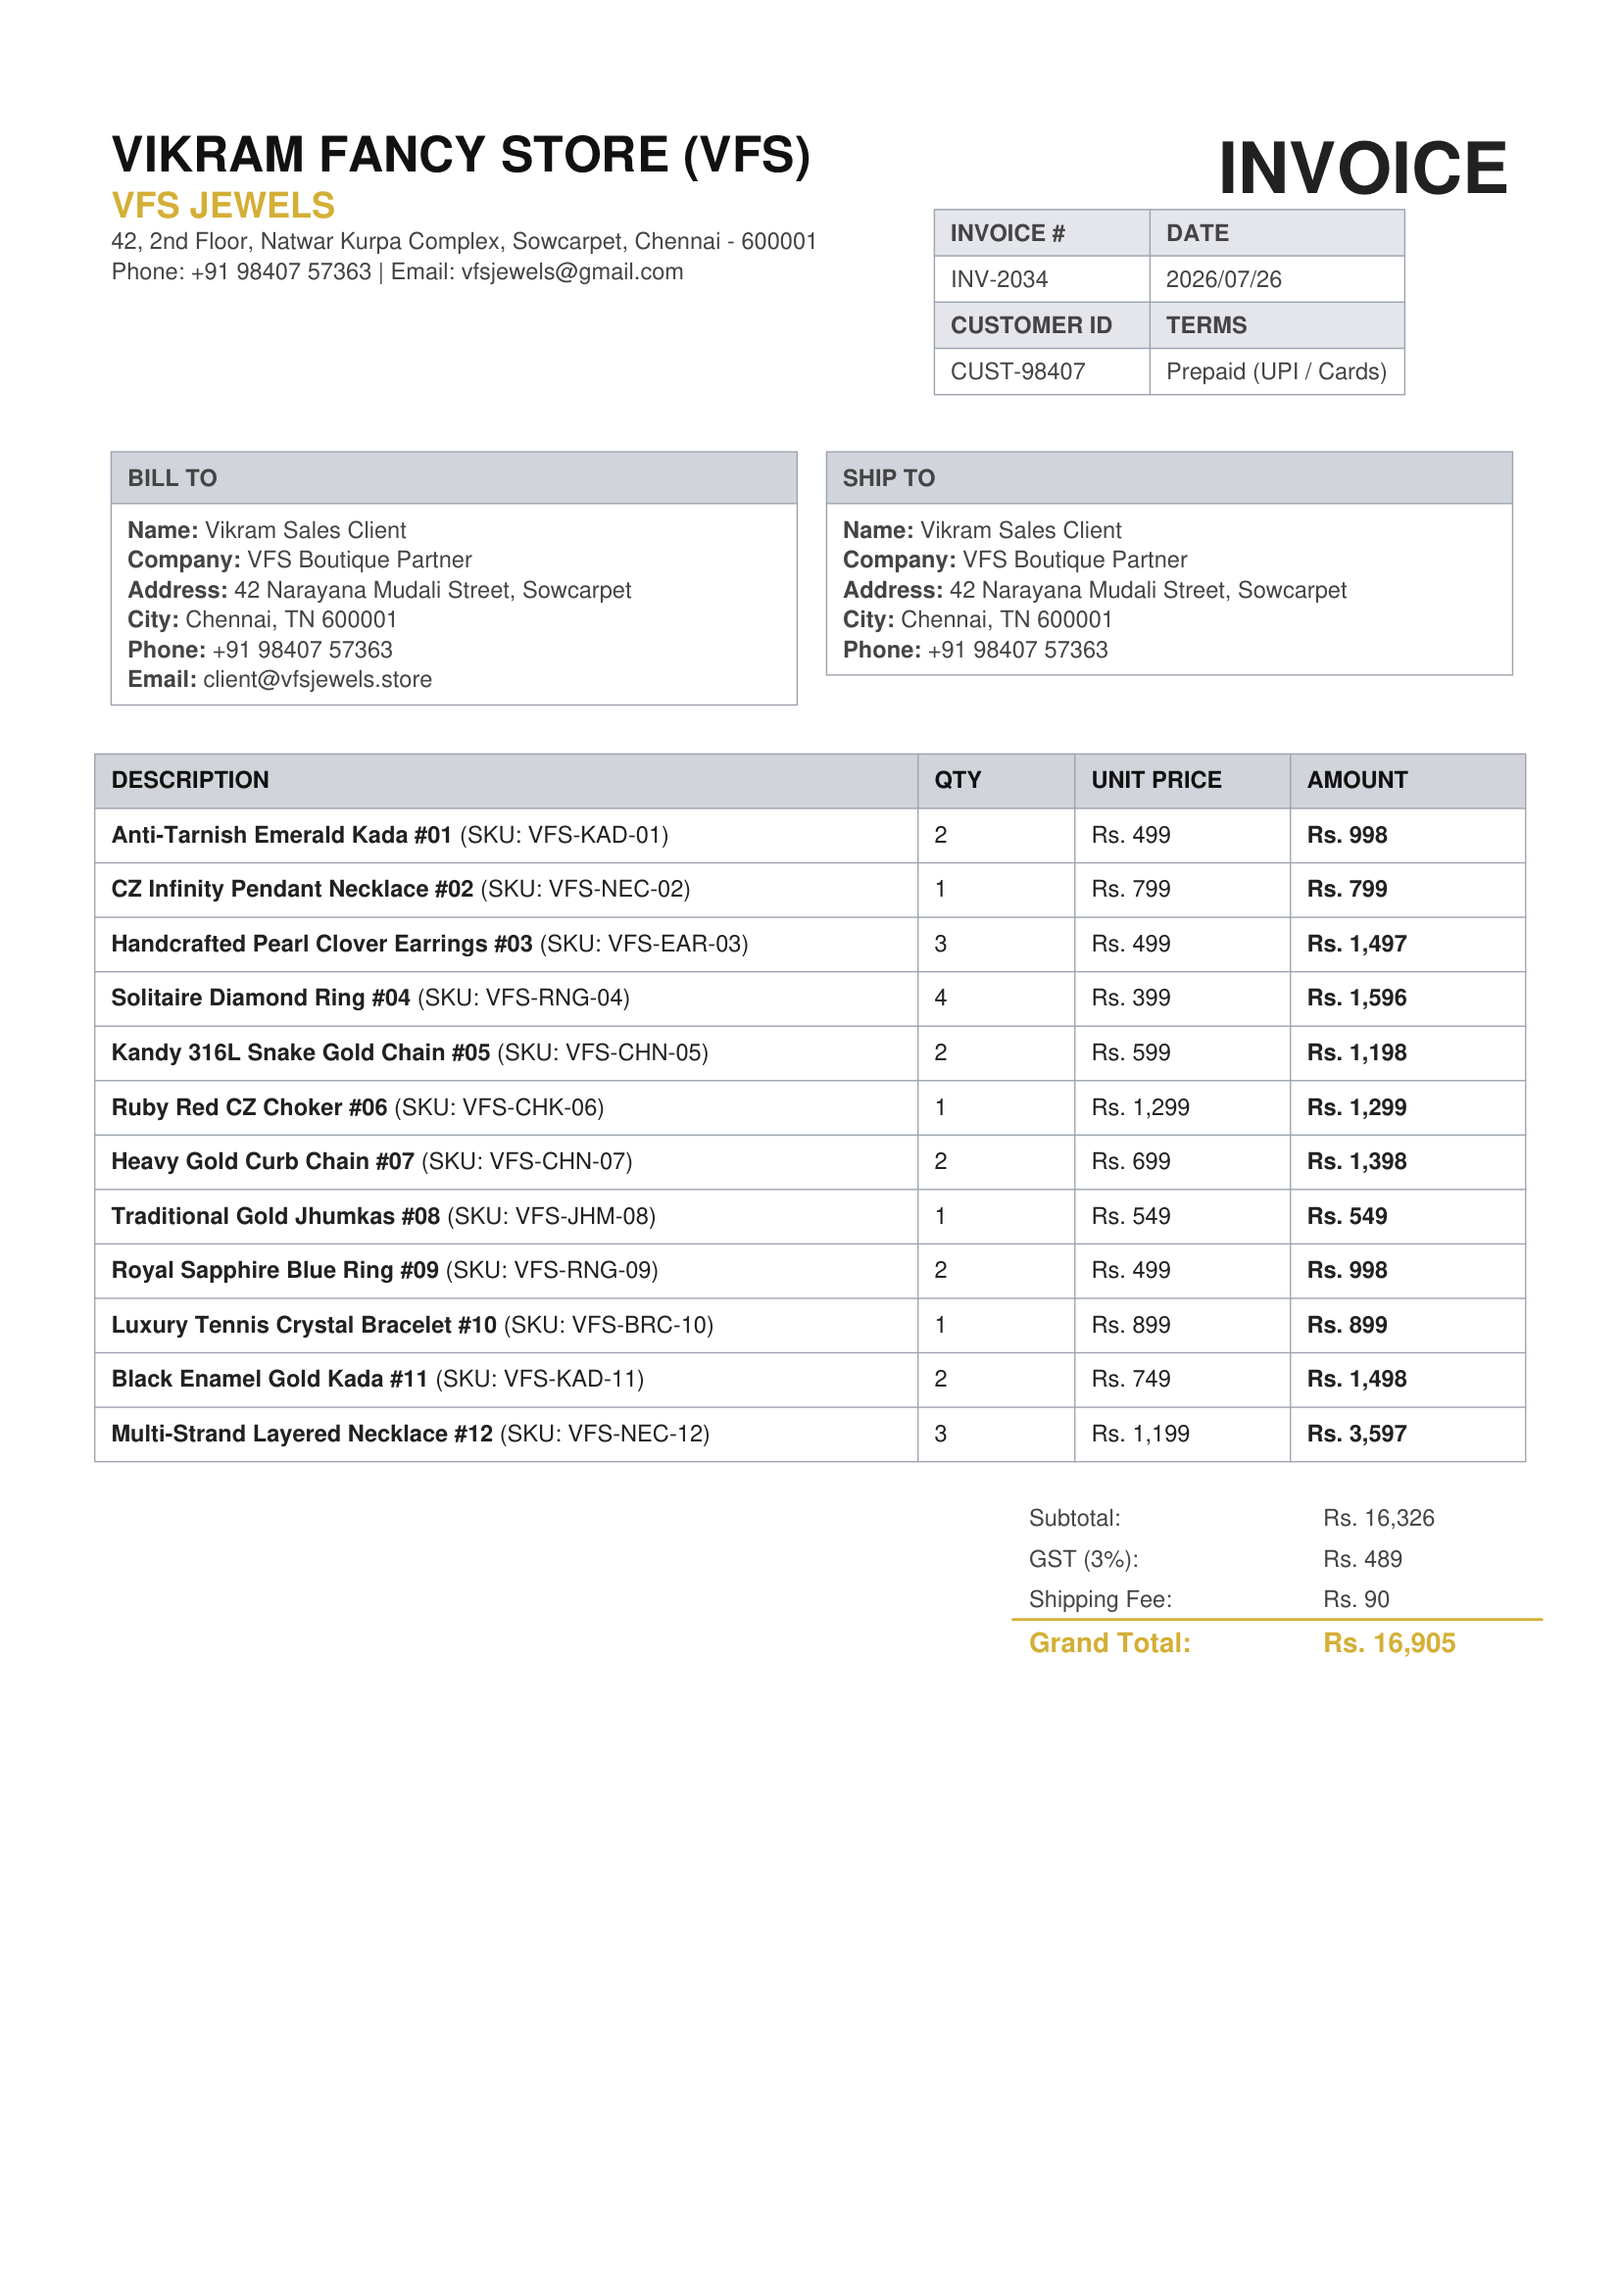
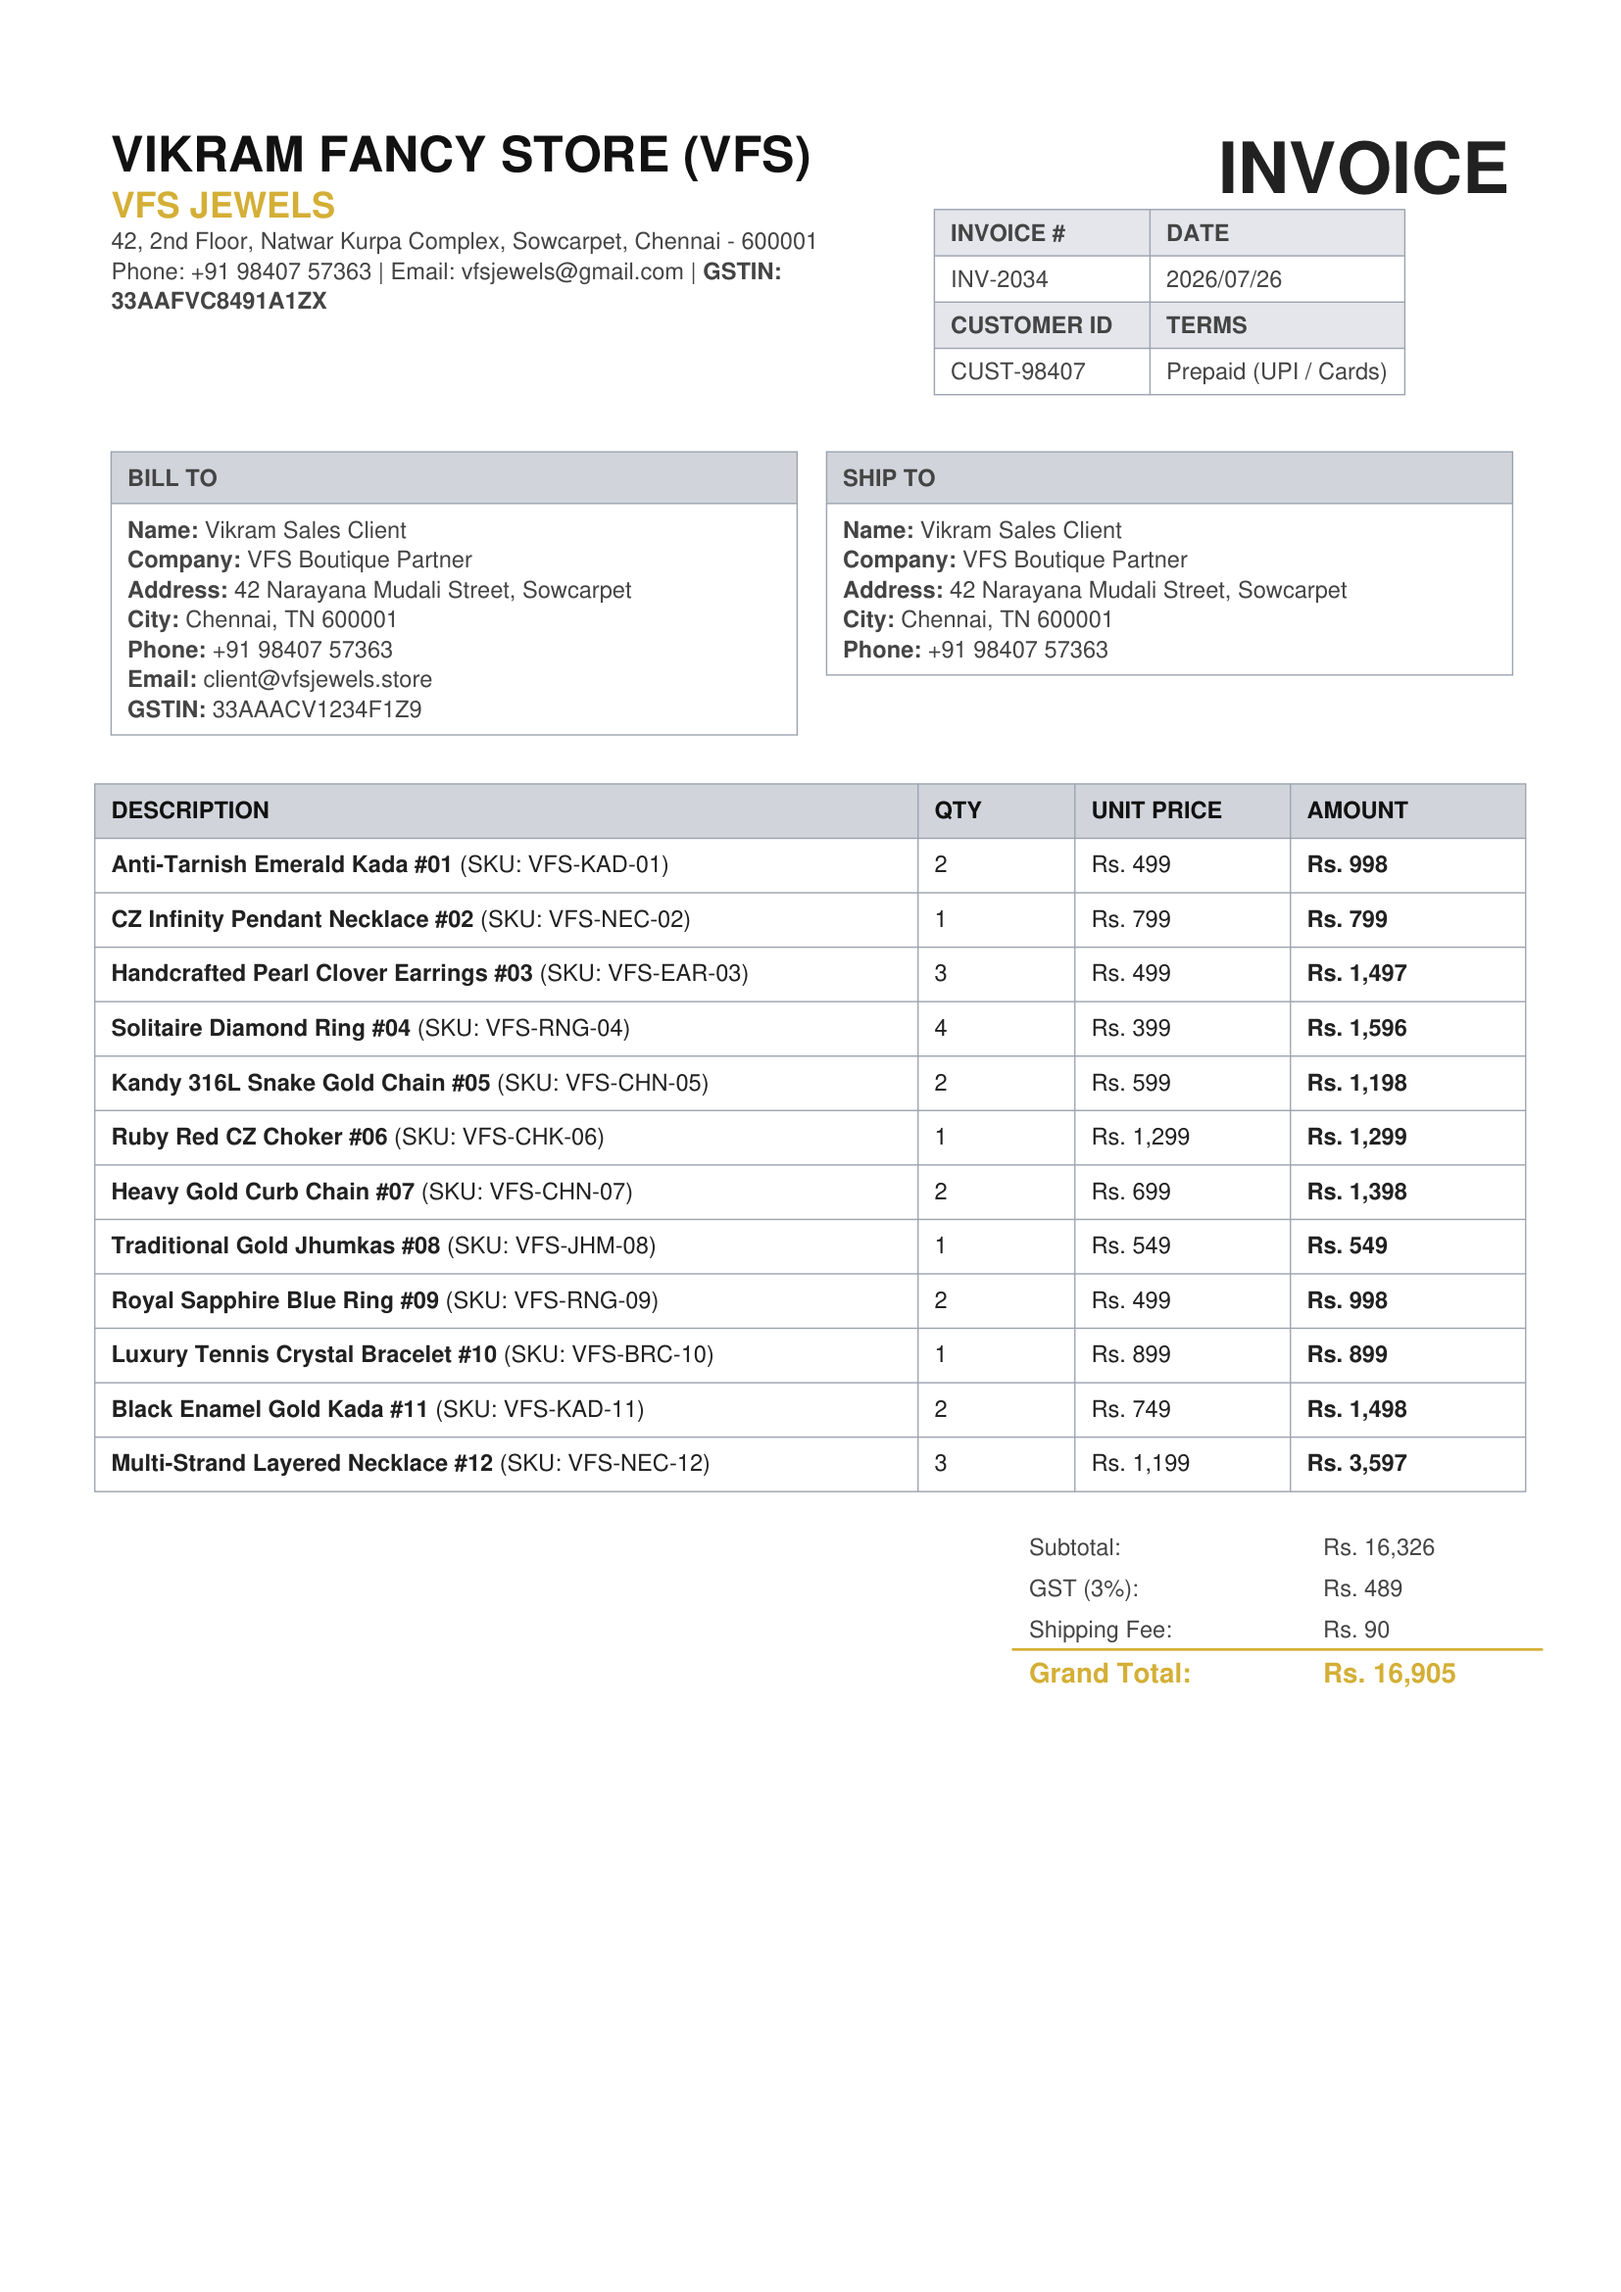
feat: added official Store GSTIN (33AAFVC8491A1ZX) and Customer GSTIN to all Invoice and Product Photo Slip PDF generators

Changed region(s): [[0.0617, 0.2809, 0.9559, 0.749], [0.0617, 0.1248, 0.185, 0.156], [0.4317, 0.0936, 0.4625, 0.1248]]

diff --git a/admin/admin.js b/admin/admin.js
@@ -2041,11 +2041,11 @@ window.printPhotoSlip = async function(orderId) {
       
       <div style="display: grid; grid-template-columns: 1fr 1fr; gap: 15px; border-bottom: 2px solid #D4AF37; padding-bottom: 10px; margin-bottom: 15px; font-size: 9.5pt; font-weight: 700; color: #333333;">
         <div>
-          <div>BILLED FROM : Vikram Fancy Store (VFS) / VFS Jewels (Sowcarpet, Chennai)</div>
+          <div>BILLED FROM : Vikram Fancy Store (VFS) / VFS Jewels | <strong>GSTIN: 33AAFVC8491A1ZX</strong></div>
           <div style="margin-top: 4px;">INV . NO : INV-${(order.id || '2034').replace('#', '')}</div>
         </div>
         <div>
-          <div>BILLED TO : ${escapeHtml(order.name || 'Valued Customer')} (${escapeHtml(order.phone || 'N/A')})</div>
+          <div>BILLED TO : ${escapeHtml(order.name || 'Valued Customer')} (${escapeHtml(order.phone || 'N/A')}) ${order.gstNumber || order.gstin ? `| <strong>GSTIN: ${escapeHtml(order.gstNumber || order.gstin)}</strong>` : ''}</div>
           <div style="margin-top: 4px;">ORDER NO : ${escapeHtml(order.id || '#VFS-98407')}</div>
         </div>
       </div>

diff --git a/scripts/update_gstin_all_generators.py b/scripts/update_gstin_all_generators.py
@@ -1,0 +1,100 @@
+import os
+import re
+
+def update_file(file_path, replacements):
+    with open(file_path, 'r', encoding='utf-8') as f:
+        content = f.read()
+    
+    for old_str, new_str in replacements:
+        content = content.replace(old_str, new_str)
+        
+    with open(file_path, 'w', encoding='utf-8') as f:
+        f.write(content)
+    print(f"Updated {file_path} with GSTIN")
+
+# 1. Update scripts/generate_sample_pdf_and_send_whatsapp.py
+generate_script = os.path.join(os.getcwd(), 'scripts', 'generate_sample_pdf_and_send_whatsapp.py')
+with open(generate_script, 'r', encoding='utf-8') as f:
+    g_code = f.read()
+
+g_code = g_code.replace(
+    'Paragraph("Phone: +91 98407 57363 | Email: vfsjewels@gmail.com", store_info)',
+    'Paragraph("Phone: +91 98407 57363 | Email: vfsjewels@gmail.com | <b>GSTIN: 33AAFVC8491A1ZX</b>", store_info)'
+)
+
+g_code = g_code.replace(
+    'Paragraph(f"<b>BILLED FROM :</b> Vikram Fancy Store (VFS) / VFS Jewels (Sowcarpet, Chennai)", meta_info_style),',
+    'Paragraph(f"<b>BILLED FROM :</b> Vikram Fancy Store (VFS) / VFS Jewels | <b>GSTIN: 33AAFVC8491A1ZX</b>", meta_info_style),'
+)
+
+g_code = g_code.replace(
+    'Paragraph(f"<b>BILLED TO :</b> {c[\'name\']} ({c[\'phone\']})", meta_info_style)',
+    'Paragraph(f"<b>BILLED TO :</b> {c[\'name\']} ({c[\'phone\']}) | <b>GSTIN: {c.get(\'gstin\', \'33AAACV1234F1Z9\')}</b>", meta_info_style)'
+)
+
+g_code = g_code.replace(
+    '"email": "client@vfsjewels.store"',
+    '"email": "client@vfsjewels.store",\n        "gstin": "33AAACV1234F1Z9"'
+)
+
+g_code = g_code.replace(
+    'Paragraph("<b>Email:</b> " + c["email"], store_info),',
+    'Paragraph("<b>Email:</b> " + c["email"], store_info),\n        Paragraph("<b>GSTIN:</b> " + c.get("gstin", "33AAACV1234F1Z9"), store_info),'
+)
+
+with open(generate_script, 'w', encoding='utf-8') as f:
+    f.write(g_code)
+print("Updated generate_sample_pdf_and_send_whatsapp.py with GSTIN")
+
+
+# 2. Update admin/admin.js
+admin_js = os.path.join(os.getcwd(), 'admin', 'admin.js')
+with open(admin_js, 'r', encoding='utf-8') as f:
+    a_code = f.read()
+
+a_code = a_code.replace(
+    '<div>BILLED FROM : Vikram Fancy Store (VFS) / VFS Jewels (Sowcarpet, Chennai)</div>',
+    '<div>BILLED FROM : Vikram Fancy Store (VFS) / VFS Jewels | <strong>GSTIN: 33AAFVC8491A1ZX</strong></div>'
+)
+
+a_code = a_code.replace(
+    '<div>BILLED TO : ${escapeHtml(order.name || \'Valued Customer\')} (${escapeHtml(order.phone || \'N/A\')})</div>',
+    '<div>BILLED TO : ${escapeHtml(order.name || \'Valued Customer\')} (${escapeHtml(order.phone || \'N/A\')}) ${order.gstNumber || order.gstin ? `| <strong>GSTIN: ${escapeHtml(order.gstNumber || order.gstin)}</strong>` : \'\'}</div>'
+)
+
+a_code = a_code.replace(
+    '<div>BILLED TO : ${order.name} (${order.phone})</div>',
+    '<div>BILLED TO : ${order.name} (${order.phone}) ${order.gstNumber || order.gstin ? `| <strong>GSTIN: ${order.gstNumber || order.gstin}</strong>` : \'\'}</div>'
+)
+
+with open(admin_js, 'w', encoding='utf-8') as f:
+    f.write(a_code)
+print("Updated admin/admin.js with GSTIN in Photo Slip and Invoices")
+
+# 3. Update app.js
+app_js = os.path.join(os.getcwd(), 'app.js')
+with open(app_js, 'r', encoding='utf-8') as f:
+    app_code = f.read()
+
+app_code = app_code.replace(
+    '<div>BILLED FROM : Vikram Fancy Store (VFS) / VFS Jewels (Sowcarpet, Chennai)</div>',
+    '<div>BILLED FROM : Vikram Fancy Store (VFS) / VFS Jewels | <strong>GSTIN: 33AAFVC8491A1ZX</strong></div>'
+)
+
+with open(app_js, 'w', encoding='utf-8') as f:
+    f.write(app_code)
+print("Updated app.js with GSTIN")
+
+# 4. Update wholesale.js
+wholesale_js = os.path.join(os.getcwd(), 'wholesale.js')
+with open(wholesale_js, 'r', encoding='utf-8') as f:
+    w_code = f.read()
+
+w_code = w_code.replace(
+    '<div>BILLED FROM : Vikram Fancy Store (VFS) / VFS Jewels (Sowcarpet, Chennai)</div>',
+    '<div>BILLED FROM : Vikram Fancy Store (VFS) / VFS Jewels | <strong>GSTIN: 33AAFVC8491A1ZX</strong></div>'
+)
+
+with open(wholesale_js, 'w', encoding='utf-8') as f:
+    f.write(w_code)
+print("Updated wholesale.js with GSTIN")

diff --git a/scripts/generate_sample_pdf_and_send_whatsapp.py b/scripts/generate_sample_pdf_and_send_whatsapp.py
@@ -36,7 +36,8 @@ ORDER_META = {
         "address": "42 Narayana Mudali Street, Sowcarpet",
         "city_zip": "Chennai, TN 600001",
         "phone": "+91 98407 57363",
-        "email": "client@vfsjewels.store"
+        "email": "client@vfsjewels.store",
+        "gstin": "33AAACV1234F1Z9"
     }
 }
 
@@ -93,7 +94,7 @@ def build_invoice_pdf(filename="vfs_invoice_sample_12_items.pdf"):
         Paragraph("VIKRAM FANCY STORE (VFS)", title_style),
         Paragraph("VFS JEWELS", brand_sub),
         Paragraph("42, 2nd Floor, Natwar Kurpa Complex, Sowcarpet, Chennai - 600001", store_info),
-        Paragraph("Phone: +91 98407 57363 | Email: vfsjewels@gmail.com", store_info)
+        Paragraph("Phone: +91 98407 57363 | Email: vfsjewels@gmail.com | <b>GSTIN: 33AAFVC8491A1ZX</b>", store_info)
     ]
 
     meta_table_data = [
@@ -130,6 +131,7 @@ def build_invoice_pdf(filename="vfs_invoice_sample_12_items.pdf"):
         Paragraph("<b>City:</b> " + c["city_zip"], store_info),
         Paragraph("<b>Phone:</b> " + c["phone"], store_info),
         Paragraph("<b>Email:</b> " + c["email"], store_info),
+        Paragraph("<b>GSTIN:</b> " + c.get("gstin", "33AAACV1234F1Z9"), store_info),
     ]
     ship_to_content = [
         Paragraph("<b>Name:</b> " + c["name"], store_info),
@@ -278,8 +280,8 @@ def build_photo_slip_pdf(filename="vfs_photo_slip_sample_12_items.pdf"):
     c = ORDER_META["customer"]
     billed_info = [
         [
-            Paragraph(f"<b>BILLED FROM :</b> Vikram Fancy Store (VFS) / VFS Jewels (Sowcarpet, Chennai)", meta_info_style),
-            Paragraph(f"<b>BILLED TO :</b> {c['name']} ({c['phone']})", meta_info_style)
+            Paragraph(f"<b>BILLED FROM :</b> Vikram Fancy Store (VFS) / VFS Jewels | <b>GSTIN: 33AAFVC8491A1ZX</b>", meta_info_style),
+            Paragraph(f"<b>BILLED TO :</b> {c['name']} ({c['phone']}) | <b>GSTIN: {c.get('gstin', '33AAACV1234F1Z9')}</b>", meta_info_style)
         ],
         [
             Paragraph(f"<b>INV . NO :</b> {ORDER_META['inv_no']}", meta_info_style),
